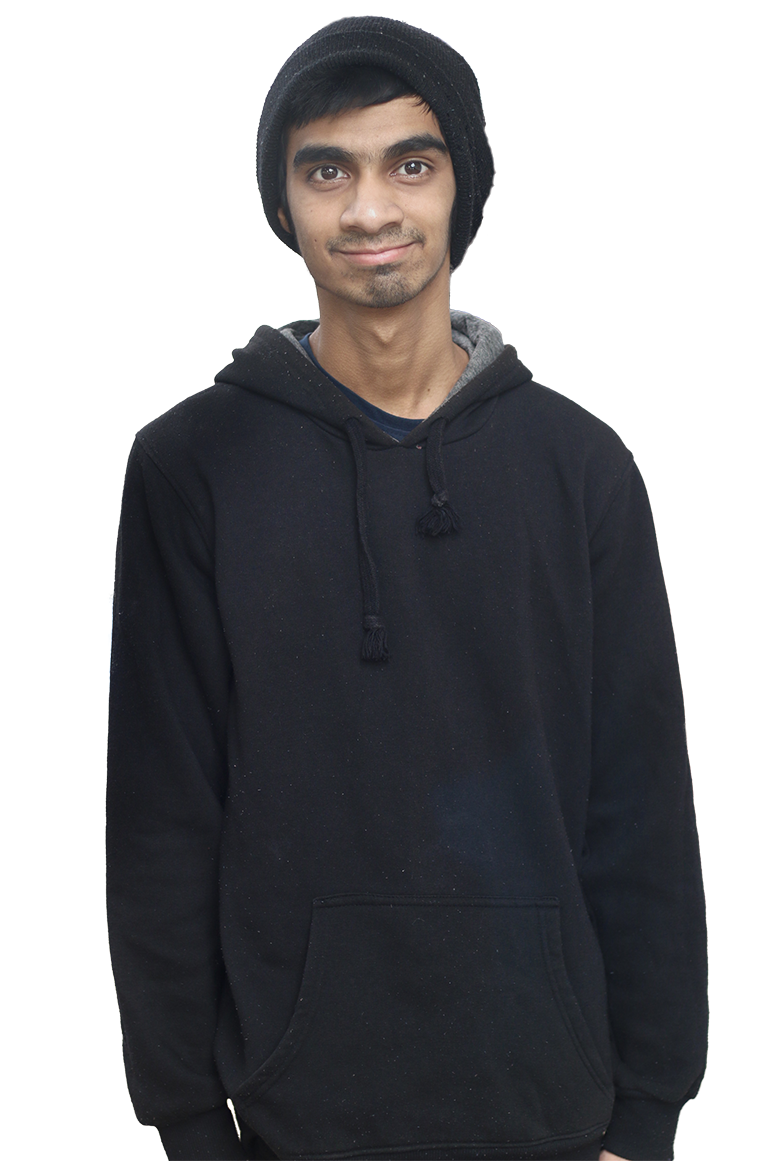
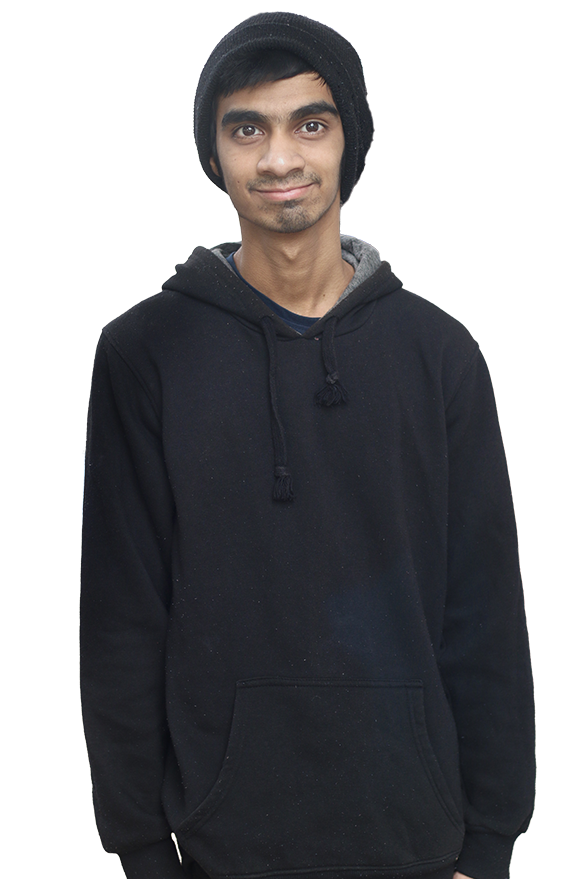
optimized images

diff --git a/src/App.js b/src/App.js
@@ -18,14 +18,14 @@ function App() {
     sr.reveal(".showcase-info", {delay: 200});
     sr.reveal(".showcase-img", {origin: "top", delay: 400});
     sr.reveal(".square", {origin: "left", delay: 600});
-    sr.reveal(".about-flex", {origin: "bottom", delay: 400});
-    sr.reveal(".about-info", {origin: "bottom", delay: 1200});
-    sr.reveal(".skills-box", {origin: "bottom", delay: 100});
-    sr.reveal(".services-info", {origin: "bottom", delay: 500});
-    sr.reveal(".services-grid", {origin: "bottom", delay: 1000});
-    sr.reveal(".work .container", {origin: "bottom", delay: 500});
-    sr.reveal(".contact-info", {origin: "bottom", delay: 200});
-    sr.reveal(".contact-form", {origin: "bottom", delay: 800});
+    sr.reveal(".about-flex", {origin: "bottom", delay: 0, duration: 1200});
+    sr.reveal(".about-info", {origin: "bottom", delay: 200, duration: 1200});
+    sr.reveal(".skills-box", {origin: "bottom", delay: 0, duration: 1200});
+    sr.reveal(".services-info", {origin: "bottom", delay: 0, duration: 1200});
+    sr.reveal(".services-grid", {origin: "bottom", delay: 200, duration: 1200});
+    sr.reveal(".work .container", {origin: "bottom", delay: 0, duration: 1200});
+    sr.reveal(".contact-info", {origin: "bottom", delay: 0, duration: 1200});
+    sr.reveal(".contact-form", {origin: "bottom", delay: 200, duration: 1200});
 }, []);
 
   useEffect(() => {
